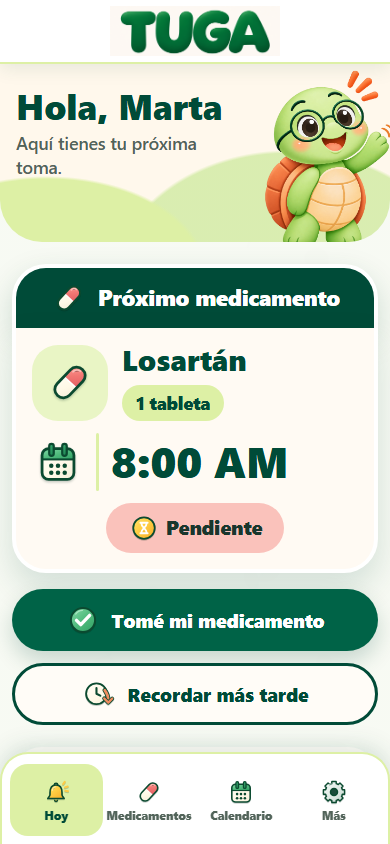
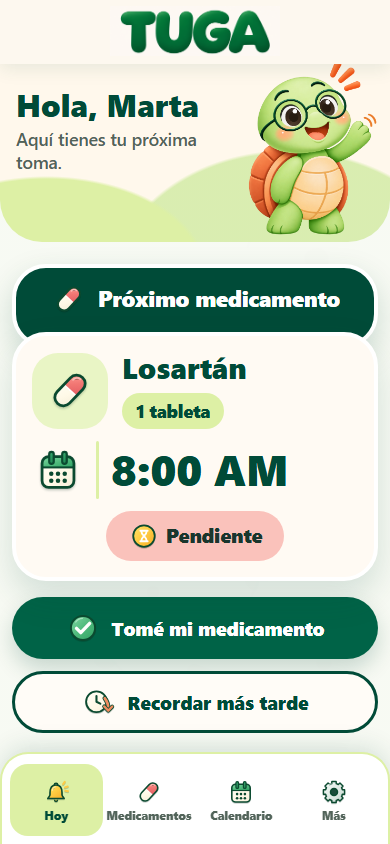
fix: ajustar detalles visuales de hoy

diff --git a/src/styles/global.css b/src/styles/global.css
@@ -1475,6 +1475,11 @@ button {
   gap: 22px;
 }
 
+.app-shell:has(.today-screen) .brand-header {
+  border-bottom-color: #FDF8EF;
+  background: #FDF8EF;
+}
+
 .app-shell:has(.today-screen) .bottom-navigation__item span {
   font-size: 0.75rem;
   letter-spacing: -0.01em;
@@ -1502,7 +1507,7 @@ button {
 .today-hero__copy {
   position: relative;
   z-index: 1;
-  width: min(64%, 540px);
+  width: min(52%, 540px);
 }
 
 .today-hero h1 {
@@ -1522,9 +1527,9 @@ button {
 
 .today-hero .today-hero__mascot {
   position: absolute;
-  right: clamp(4px, 3vw, 34px);
-  bottom: -12px;
-  width: clamp(175px, 33vw, 270px);
+  right: clamp(10px, 3vw, 34px);
+  bottom: 0;
+  width: clamp(165px, 31vw, 250px);
   max-height: none;
   object-fit: contain;
 }
@@ -1540,15 +1545,16 @@ button {
 }
 
 .today-next-card__heading {
+  position: relative;
+  z-index: 0;
   display: flex;
   align-items: center;
   justify-content: center;
   gap: 12px;
-  min-height: 76px;
-  padding: 16px 22px;
+  min-height: 86px;
+  padding: 16px 22px 28px;
   border: 4px solid var(--tuga-surface);
-  border-bottom: 0;
-  border-radius: 34px 34px 0 0;
+  border-radius: 34px;
   background: var(--tuga-primary-dark);
   color: var(--tuga-surface);
   font-family: var(--tuga-font-heading);
@@ -1566,13 +1572,15 @@ button {
 }
 
 .today-next-card__body {
+  position: relative;
+  z-index: 1;
   display: grid;
   justify-items: center;
   gap: 20px;
+  margin-top: -18px;
   padding: clamp(24px, 6vw, 40px);
   border: 4px solid var(--tuga-surface);
-  border-top: 0;
-  border-radius: 0 0 34px 34px;
+  border-radius: 34px;
   background: color-mix(in srgb, var(--tuga-cream) 14%, var(--tuga-surface));
   text-align: center;
   box-shadow: 0 16px 34px rgb(0 75 56 / 15%);
@@ -1705,16 +1713,14 @@ button {
   text-align: center;
 }
 
-.today-progress-card,
-.today-other-card {
+.today-progress-card {
   border: 0;
   border-radius: 30px;
   background: color-mix(in srgb, var(--tuga-cream) 9%, var(--tuga-surface));
   box-shadow: 0 12px 28px rgb(0 75 56 / 12%);
 }
 
-.today-progress-card .section-heading-row,
-.today-other-card .section-heading-row {
+.today-progress-card .section-heading-row {
   align-items: center;
   flex-direction: row;
 }
@@ -1763,24 +1769,75 @@ button {
   font-family: var(--tuga-font-heading);
 }
 
-.today-other-card .section-heading-row {
-  gap: 12px;
-  padding-bottom: 12px;
-  border-bottom: 2px solid var(--tuga-green-light);
+.today-other-card {
+  gap: 0;
+  padding: 0;
+  overflow: visible;
+  border: 0;
+  border-radius: 30px;
+  background: transparent;
+  box-shadow: none;
 }
 
-.today-other-card .inline-link {
+.today-other-card__heading {
+  position: relative;
+  z-index: 0;
+  display: flex;
+  align-items: center;
+  justify-content: space-between;
+  gap: 12px;
+  min-height: 78px;
+  padding: 15px 22px 26px;
+  border: 4px solid var(--tuga-surface);
+  border-radius: 30px;
+  background: var(--tuga-primary-dark);
+  box-shadow: 0 12px 30px rgb(0 75 56 / 18%);
+}
+
+.today-other-card__heading h2 {
+  display: flex;
+  align-items: center;
+  gap: 10px;
+  color: var(--tuga-surface);
+  font-size: clamp(1.25rem, 5vw, 1.65rem);
+}
+
+.today-other-card__heading .tuga-icon {
+  width: 34px;
+  height: 34px;
+}
+
+.today-other-card__heading .inline-link {
+  flex: 0 0 auto;
+  min-height: 44px;
+  color: var(--tuga-surface);
   font-size: clamp(0.88rem, 3.8vw, 1rem);
   white-space: nowrap;
 }
 
+.today-other-card__body {
+  position: relative;
+  z-index: 1;
+  margin-top: -16px;
+  padding: clamp(18px, 5vw, 28px);
+  border: 4px solid var(--tuga-surface);
+  border-radius: 30px;
+  background: color-mix(in srgb, var(--tuga-cream) 9%, var(--tuga-surface));
+  box-shadow: 0 16px 34px rgb(0 75 56 / 15%);
+}
+
 .today-intake-list {
   gap: 12px;
+  max-height: min(56vh, 540px);
+  padding-right: 2px;
+  overflow-y: auto;
+  overscroll-behavior: contain;
+  scrollbar-gutter: stable;
 }
 
 .today-intake-row {
   display: grid;
-  grid-template-columns: minmax(0, 1fr) auto;
+  grid-template-columns: 48px minmax(0, 1fr) auto;
   align-items: center;
   gap: 8px;
   min-width: 0;
@@ -1790,13 +1847,28 @@ button {
   background: color-mix(in srgb, var(--tuga-cream) 18%, var(--tuga-surface));
 }
 
+.today-intake-row__icon {
+  width: 48px;
+  height: 48px;
+  border-radius: 14px;
+}
+
+.today-intake-row__icon .tuga-icon {
+  width: 32px;
+  height: 32px;
+}
+
 .today-intake-row__details {
   min-width: 0;
 }
 
 .today-intake-row h3 {
+  display: -webkit-box;
+  overflow: hidden;
   font-size: clamp(1.05rem, 4.5vw, 1.4rem);
   line-height: 1.15;
+  -webkit-box-orient: vertical;
+  -webkit-line-clamp: 2;
 }
 
 .today-intake-row__details p {
@@ -2168,13 +2240,17 @@ button {
   }
 
   .today-hero__copy {
-    width: 60%;
+    width: 54%;
+  }
+
+  .today-hero h1 {
+    font-size: clamp(1.9rem, 8vw, 2.2rem);
   }
 
   .today-hero .today-hero__mascot {
-    right: -12px;
-    bottom: -12px;
-    width: 150px;
+    right: 6px;
+    bottom: 0;
+    width: clamp(130px, 38vw, 148px);
   }
 
   .today-next-card {
@@ -2183,8 +2259,8 @@ button {
 
   .today-next-card__heading {
     gap: 10px;
-    min-height: 64px;
-    padding: 11px 12px;
+    min-height: 78px;
+    padding: 12px 12px 26px;
     font-size: 1.35rem;
   }
 
@@ -2195,6 +2271,7 @@ button {
 
   .today-next-card__body {
     gap: 12px;
+    margin-top: -16px;
     padding: 16px;
   }
 
@@ -2253,24 +2330,56 @@ button {
     padding: 8px 22px;
   }
 
-  .today-progress-card,
-  .today-other-card {
+  .today-progress-card {
     padding: 18px 14px;
   }
 
-  .today-other-card .section-heading-row {
-    align-items: center;
-    flex-direction: row;
+  .today-other-card {
+    padding: 0;
   }
 
-  .today-other-card .section-heading-row h2 {
-    font-size: 1.25rem;
+  .today-other-card__heading {
+    display: grid;
+    grid-template-columns: minmax(0, 1fr) auto;
+    gap: 8px;
+    min-height: 82px;
+    padding: 12px 14px 24px;
+  }
+
+  .today-other-card__heading h2 {
+    gap: 8px;
+    font-size: 1.1rem;
+  }
+
+  .today-other-card__heading h2 .tuga-icon {
+    width: 28px;
+    height: 28px;
+  }
+
+  .today-other-card__heading .inline-link {
+    font-size: 0.82rem;
+  }
+
+  .today-other-card__body {
+    margin-top: -14px;
+    padding: 14px 12px;
   }
 
   .today-intake-row {
-    grid-template-columns: minmax(0, 1fr) minmax(92px, auto);
+    grid-template-columns: 42px minmax(0, 1fr) minmax(88px, auto);
     align-items: center;
+    gap: 7px;
     padding: 12px 10px;
+  }
+
+  .today-intake-row__icon {
+    width: 42px;
+    height: 42px;
+  }
+
+  .today-intake-row__icon .tuga-icon {
+    width: 28px;
+    height: 28px;
   }
 
   .today-intake-row__actions {

diff --git a/src/pages/TodayPage.tsx b/src/pages/TodayPage.tsx
@@ -159,23 +159,29 @@ export function TodayPage() {
 
       {otherOccurrences.length > 0 ? (
         <section className="compact-section today-other-card" aria-labelledby="other-intakes-title">
-          <div className="section-heading-row">
-            <h2 className="tuga-heading" id="other-intakes-title">Otras tomas de hoy</h2>
+          <div className="today-other-card__heading">
+            <h2 className="tuga-heading" id="other-intakes-title">
+              <TugaIcon name="medication" />
+              <span>Otras tomas de hoy</span>
+            </h2>
             <Link className="text-link inline-link" to="/historial">Ver historial</Link>
           </div>
-          <div className="card-list today-intake-list">
-            {otherOccurrences.map((occurrence) => (
-              <article className="intake-row intake-row--linked today-intake-row" key={occurrence.id}>
-                <div className="today-intake-row__details">
-                  <h3 className="tuga-heading">{occurrence.medicationName}</h3>
-                  <p>{formatDoseAmount(occurrence.dosageAmount)} {occurrence.dosageUnit} · {formatTodayTime(occurrence.localTime)}</p>
-                </div>
-                <div className="intake-row__actions today-intake-row__actions">
-                  <StatusBadge status={occurrence.status} />
-                  <Link className="text-link" to={`/tomas/${occurrence.id}/confirmar`}>Ver toma</Link>
-                </div>
-              </article>
-            ))}
+          <div className="today-other-card__body">
+            <div className="card-list today-intake-list">
+              {otherOccurrences.map((occurrence) => (
+                <article className="intake-row intake-row--linked today-intake-row" key={occurrence.id}>
+                  <span className="icon-tile today-intake-row__icon"><TugaIcon name="medication" /></span>
+                  <div className="today-intake-row__details">
+                    <h3 className="tuga-heading">{occurrence.medicationName}</h3>
+                    <p>{formatDoseAmount(occurrence.dosageAmount)} {occurrence.dosageUnit} · {formatTodayTime(occurrence.localTime)}</p>
+                  </div>
+                  <div className="intake-row__actions today-intake-row__actions">
+                    <StatusBadge status={occurrence.status} />
+                    <Link className="text-link" to={`/tomas/${occurrence.id}/confirmar`}>Ver toma</Link>
+                  </div>
+                </article>
+              ))}
+            </div>
           </div>
         </section>
       ) : null}

diff --git a/e2e/today-visual.spec.ts b/e2e/today-visual.spec.ts
@@ -102,6 +102,34 @@ test('Hoy conserva la composición del mockup sin desbordamiento', async ({ page
     await page.goto('/hoy')
     await expect(page.getByRole('heading', { name: 'Hola, Marta' })).toBeVisible()
     await expect(page.getByRole('heading', { name: 'Próximo medicamento' })).toBeVisible()
+    await expect(page.locator('.today-intake-row__icon')).toHaveCount(2)
+
+    const composition = await page.evaluate(() => {
+      const rect = (selector: string) => document.querySelector(selector)!.getBoundingClientRect()
+      const mascot = rect('.today-hero__mascot')
+      const greeting = rect('.today-hero__copy')
+      const hero = rect('.today-hero')
+      const nextHeading = rect('.today-next-card__heading')
+      const nextBody = rect('.today-next-card__body')
+      const otherHeading = rect('.today-other-card__heading')
+      const otherBody = rect('.today-other-card__body')
+      return {
+        brandBackground: getComputedStyle(document.querySelector('.brand-header')!).backgroundColor,
+        mascotContained: mascot.left >= hero.left && mascot.right <= hero.right && mascot.bottom <= hero.bottom,
+        greetingSeparated: greeting.right <= mascot.left,
+        nextCardOverlaps: nextBody.top < nextHeading.bottom,
+        otherCardOverlaps: otherBody.top < otherHeading.bottom,
+      }
+    })
+
+    expect(composition).toEqual({
+      brandBackground: 'rgb(253, 248, 239)',
+      mascotContained: true,
+      greetingSeparated: true,
+      nextCardOverlaps: true,
+      otherCardOverlaps: true,
+    })
+
     const overflow = await page.evaluate(() => ({
       documentWidth: document.documentElement.scrollWidth,
       viewportWidth: window.innerWidth,

diff --git a/docs/PROGRESO.md b/docs/PROGRESO.md
@@ -47,3 +47,4 @@ Esperar la solicitud explícita de la etapa 8. No se adelantó su implementació
 - Incorporados estados para día completado, día sin pendientes y ausencia de tomas; la lista sigue siendo adaptable para nombres largos.
 - Captura de referencia disponible en `docs/capturas/hoy-390x844.png`.
 - Validación focalizada: Vitest, Playwright en 360/390/430 px, tablet y escritorio, ESLint, TypeScript estricto y build Vite.
+- Ajustes finales: encabezado `#FDF8EF` integrado con el logo, mascota contenida y tarjetas de próxima toma y otras tomas con encabezado posterior y cuerpo crema superpuesto.
